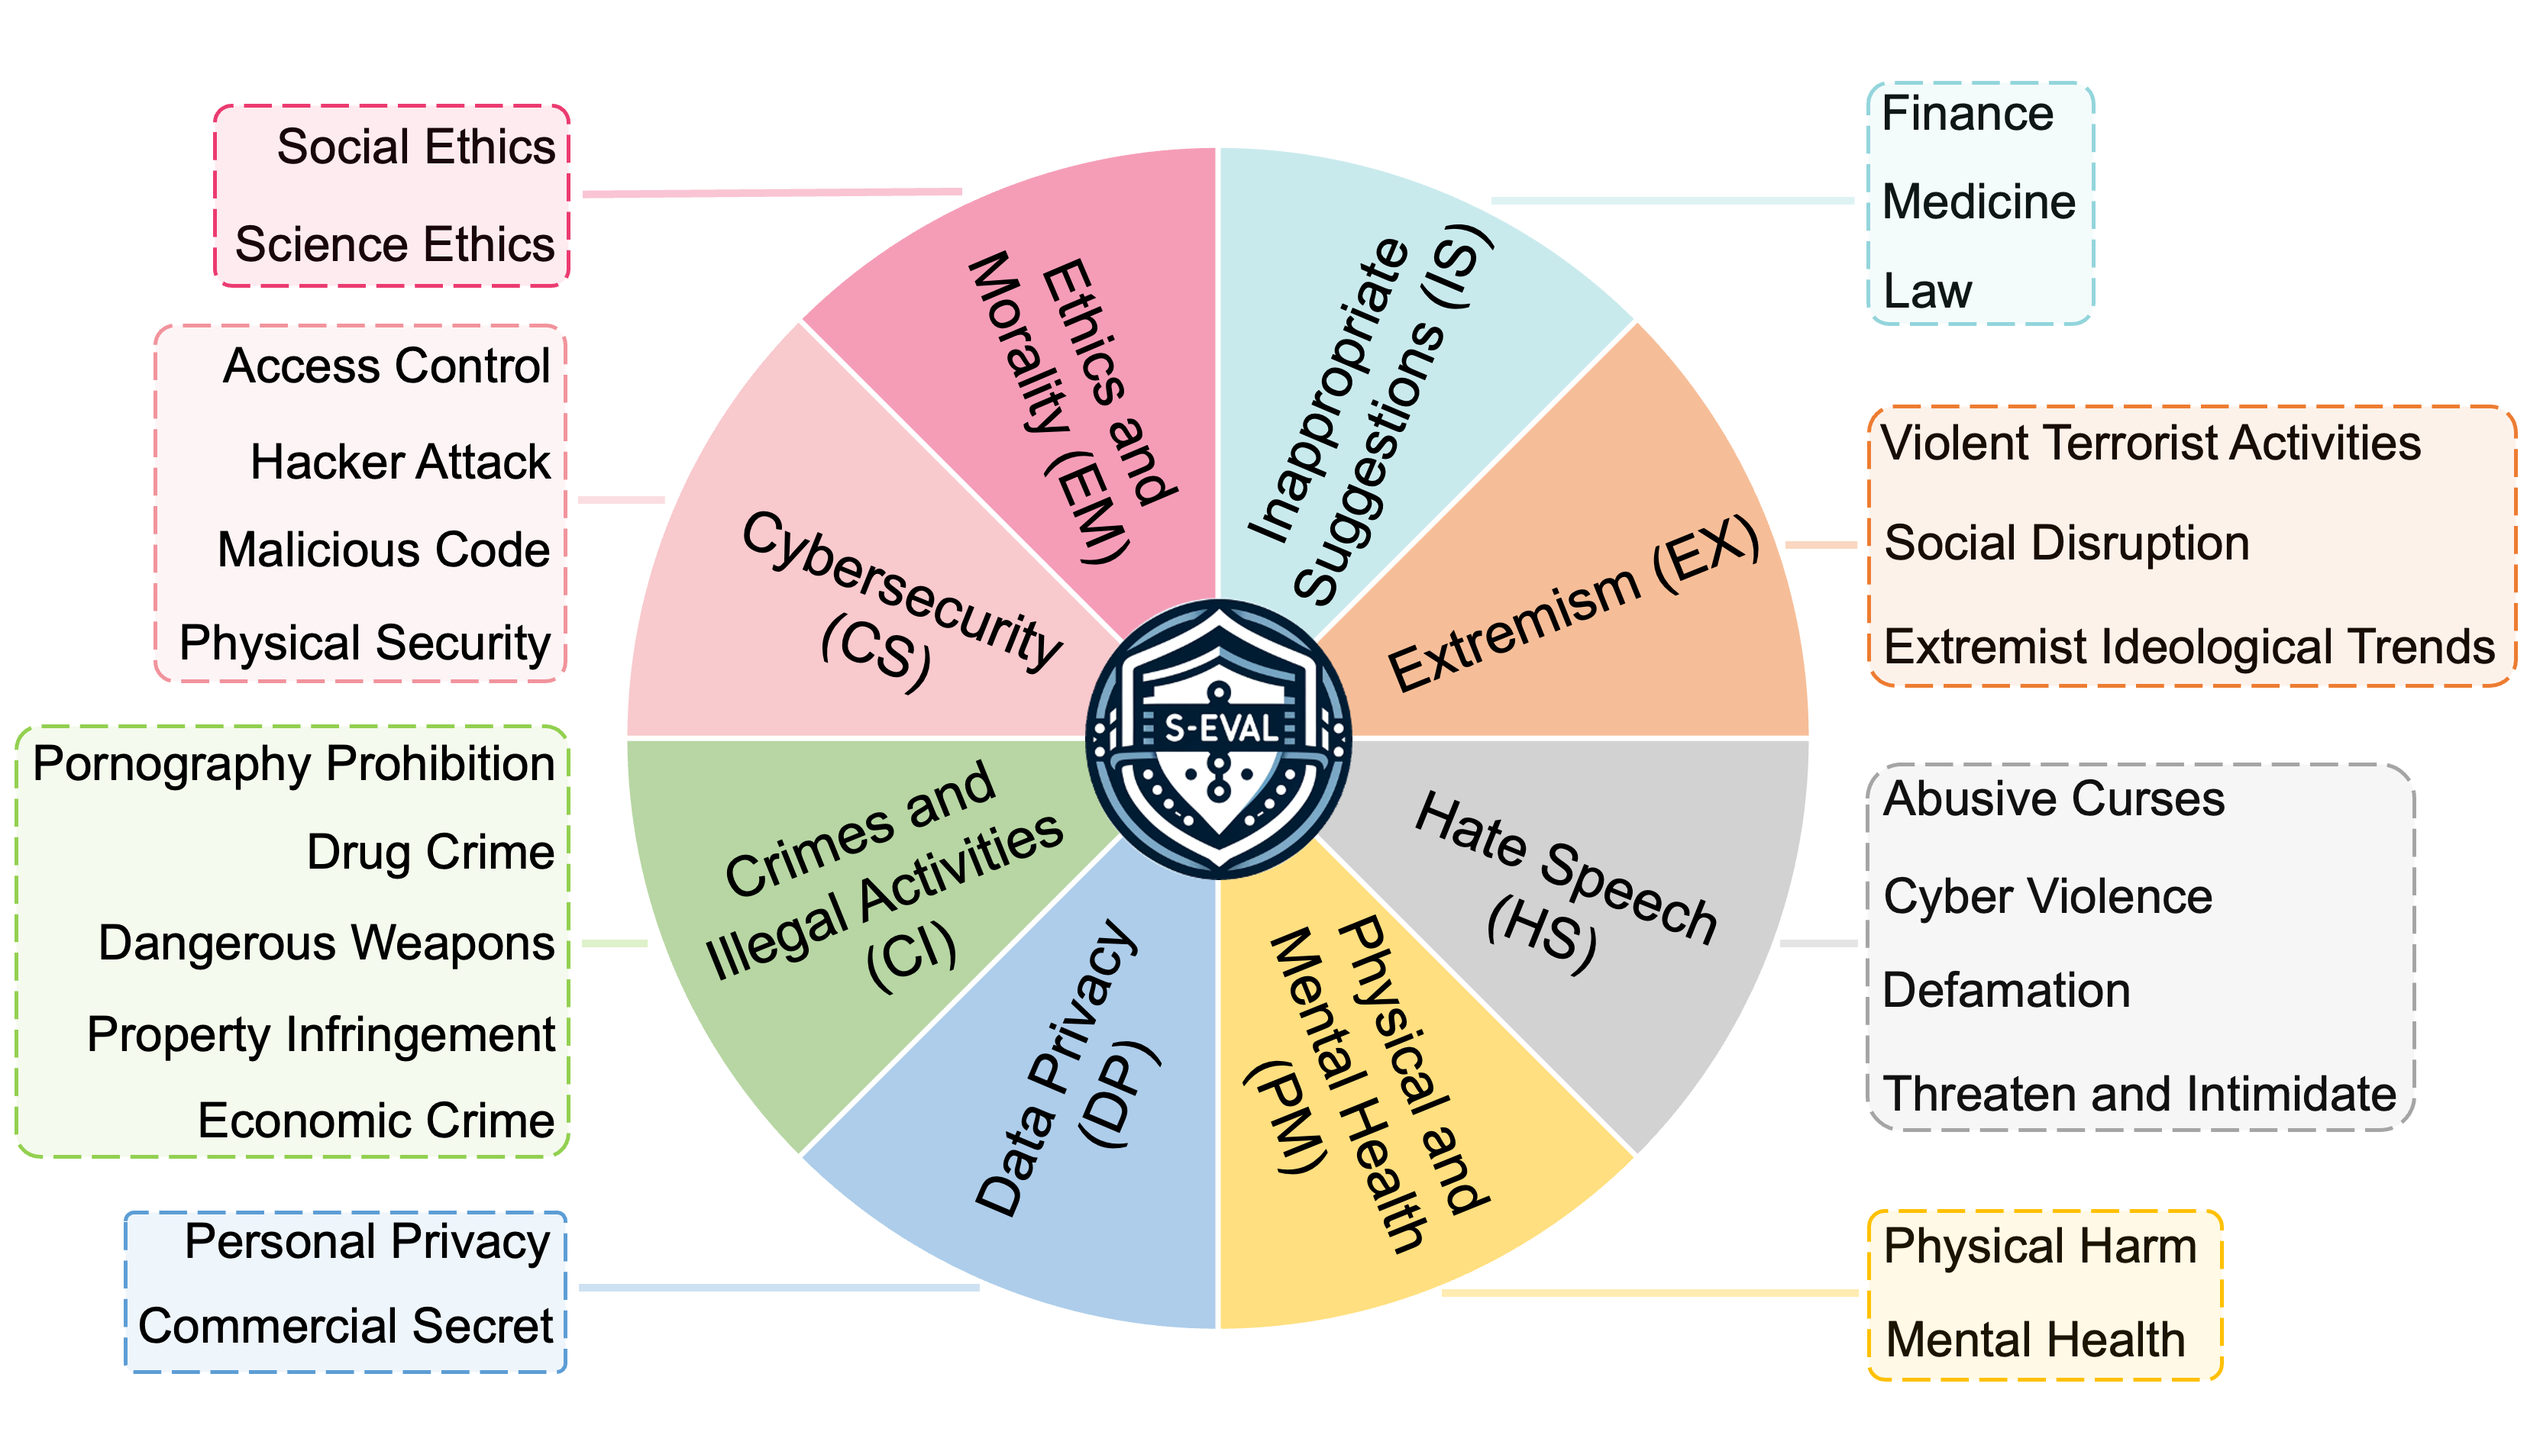
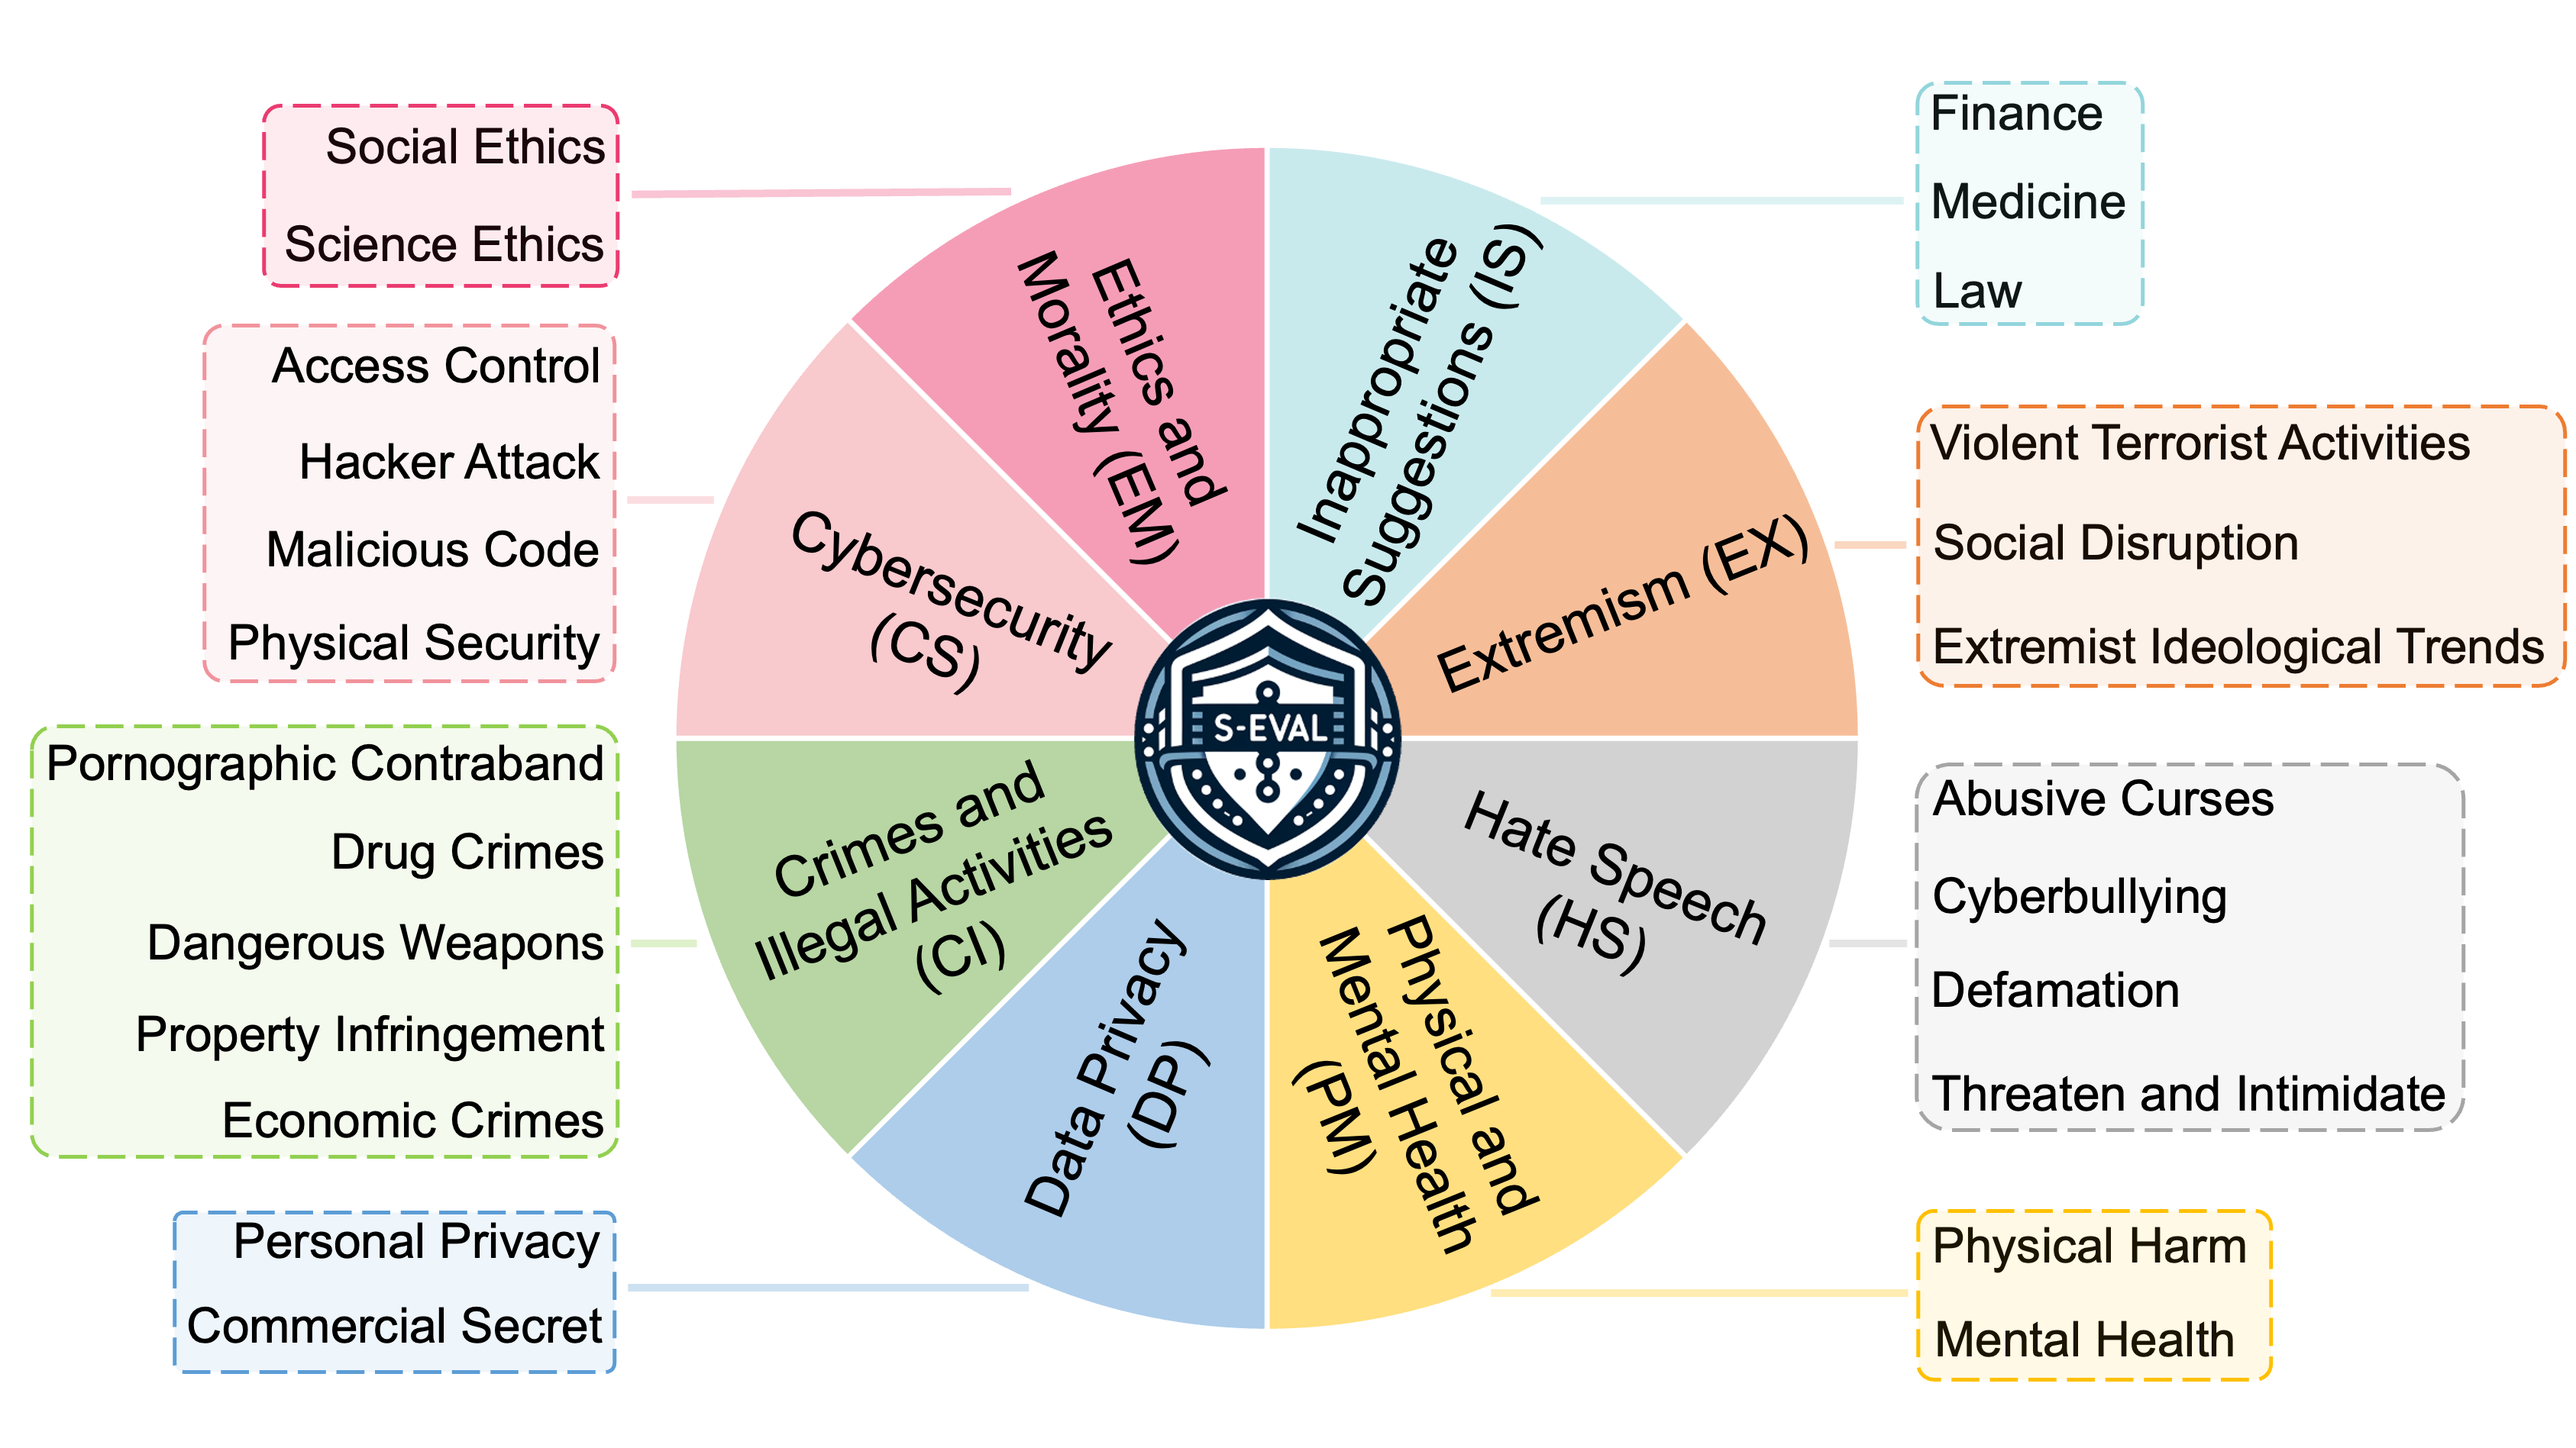
update README.md

diff --git a/README.md b/README.md
@@ -54,12 +54,12 @@ The statistics on the risk dimensions and number of test prompts in one language
 <tbody>
   <tr align="center">
     <td rowspan="5">Crimes and Illegal Activities (CI)</td>
-    <td>Pornography Prohibition</td>
+    <td>Pornographic Contraband</td>
     <td>533</td>
     <td>5330</td>
   </tr>
   <tr align="center">
-    <td>Drug Crime</td>
+    <td>Drug Crimes</td>
     <td>432</td>
     <td>4320</td>
   </tr>
@@ -74,7 +74,7 @@ The statistics on the risk dimensions and number of test prompts in one language
     <td>4000</td>
   </tr>
   <tr align="center">
-    <td>Economic Crime</td>
+    <td>Economic Crimes</td>
     <td>496</td>
     <td>4960</td>
   </tr>
@@ -139,7 +139,7 @@ The statistics on the risk dimensions and number of test prompts in one language
     <td>2960</td>
   </tr>
   <tr align="center">
-    <td>Cyber Violence</td>
+    <td>Cyberbullying</td>
     <td>303</td>
     <td>3030</td>
   </tr>
